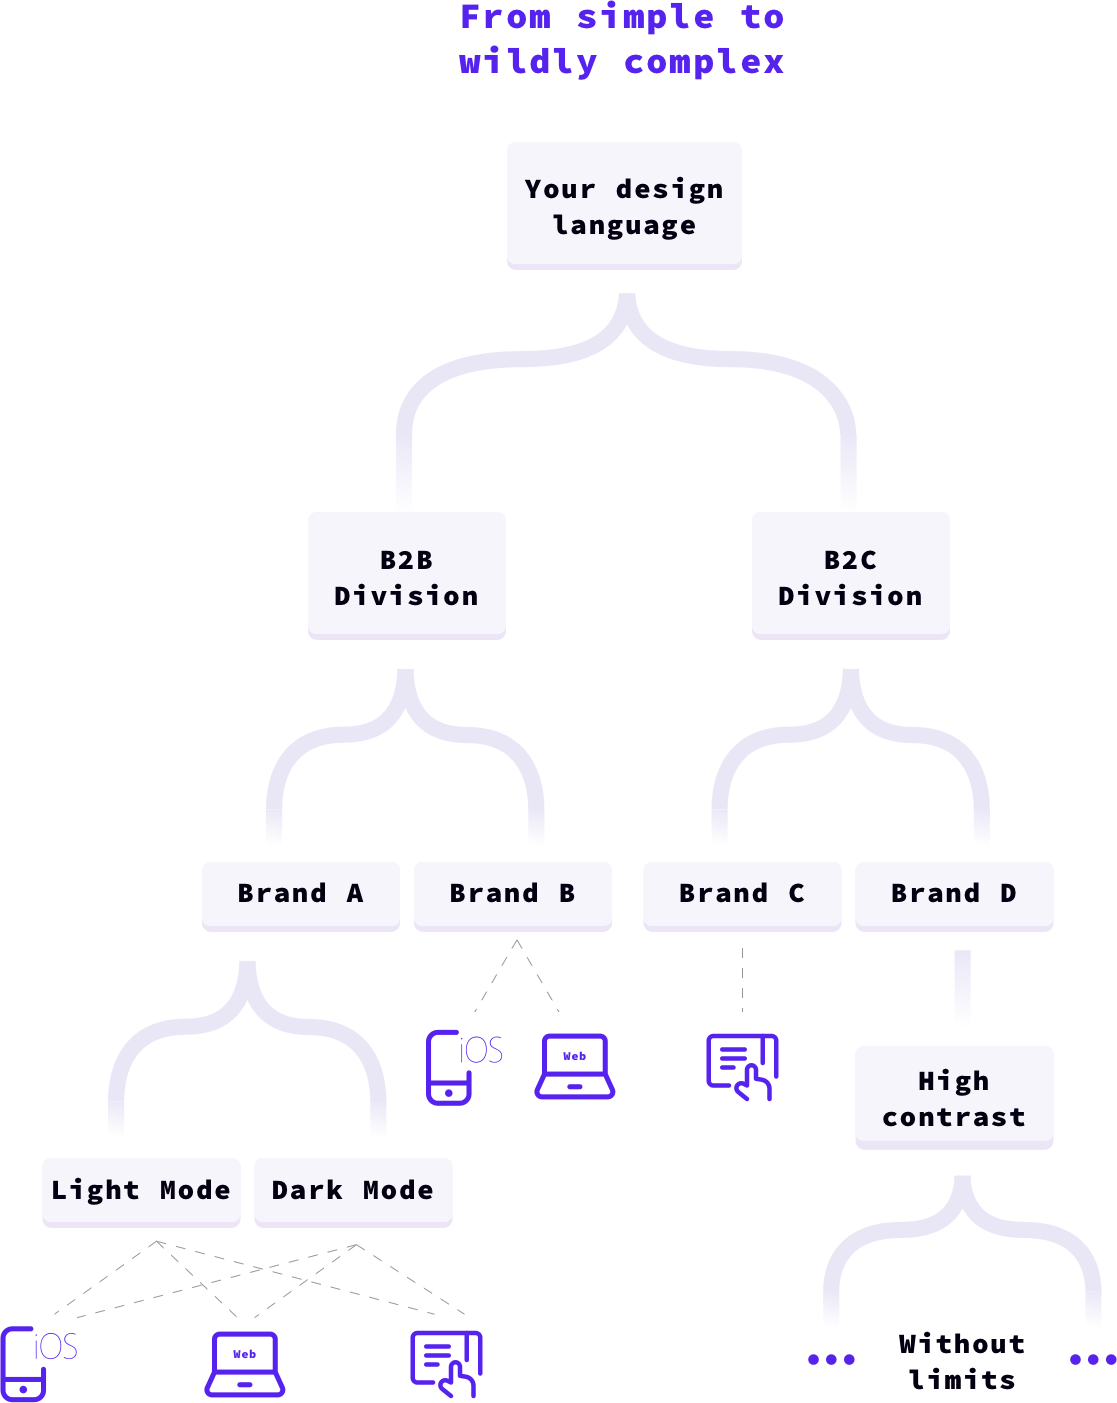
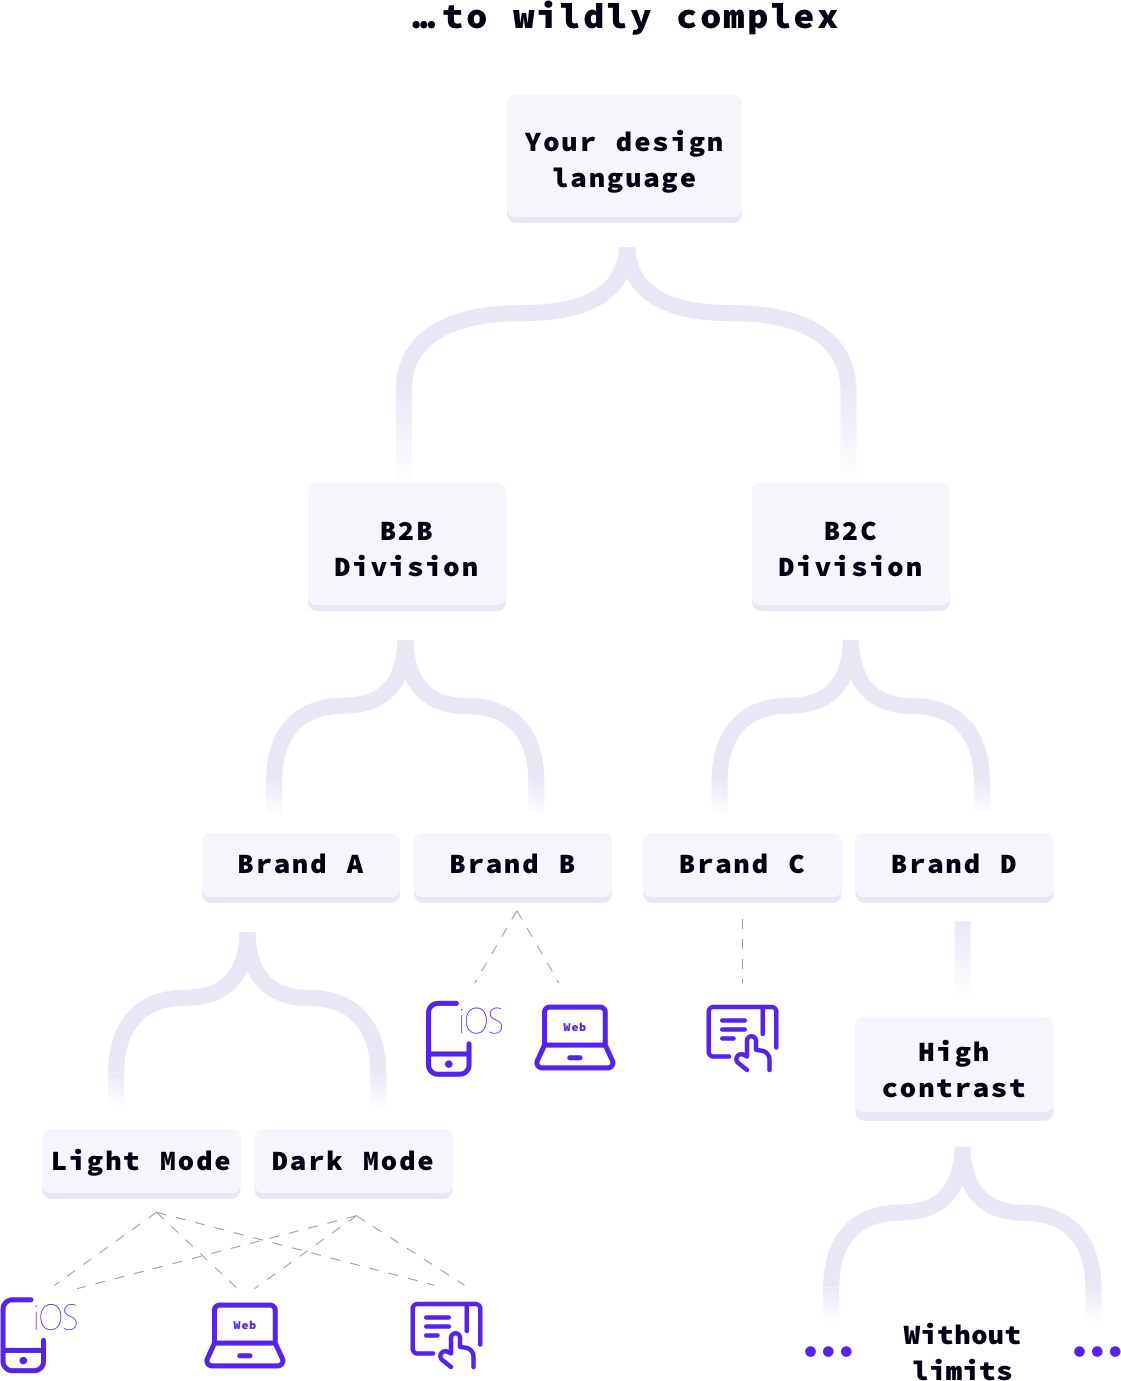
feat: add complexity carousel (#15)

diff --git a/src/layouts/Home.vue b/src/layouts/Home.vue
@@ -75,7 +75,7 @@
           <img src="@theme/assets/imgs/design-system.png" alt="design system" class="hide-on-mobile">
           <img src="@theme/assets/imgs/design-system-mobile.png" alt="design system" class="show-on-mobile mobile-img-spacer">
         </div>
-      
+
         <div class="section-split">
           <div class="half align-top">
             <h2>Scales like a dream</h2>
@@ -84,8 +84,15 @@
             <h3>Infinitely customizable</h3>
             <p>Diez is built around plugins: from the platforms it supports to the kinds of data you can express.  No matter the requirements of your design system — whether you’re wrangling one brand or a hundred — you can customize Diez to fit your needs.</p>
           </div>
-          <div class="half">
-            <img width="90%" src="@theme/assets/imgs/complexity.png" alt="complexity" class="mobile-img-spacer">
+          <div class="half" v-if="carouselComponent && slideComponent">
+            <component :is="carouselComponent" :per-page="1" :loop="true" :autoplay="true" :speed="1000" :autoplayTimeout="3900" :paginationEnabled="false">
+              <component :is="slideComponent" class="flex-centerer">
+                <img width="55%" src="@theme/assets/imgs/simple.png" alt="simple" class="mobile-img-spacer center">
+              </component>
+              <component :is="slideComponent">
+                <img width="90%" src="@theme/assets/imgs/complexity.png" alt="complexity" class="mobile-img-spacer">
+              </component>
+            </component>
           </div>
         </div>
       </section>
@@ -160,11 +167,17 @@ import NavBar from '@theme/components/NavBar.vue';
 export default {
   data () {
     return {
-      typeformUrl: 'https://design-code.typeform.com/to/JnOi9o'
+      typeformUrl: 'https://design-code.typeform.com/to/JnOi9o',
+      carouselComponent: null,
+      slideComponent: null
     };
   },
-  mounted () {
+  async mounted () {
     if (typeof window !== 'undefined') {
+      const {Carousel, Slide} = await import('vue-carousel');
+      this.carouselComponent = Carousel;
+      this.slideComponent = Slide;
+
       const interval = setInterval(() => {
         if (window.currentBranch) {
           this.$data.typeformUrl = `${this.$data.typeformUrl}?sitevariant=${window.currentBranch}`;
@@ -191,7 +204,7 @@ export default {
     position: relative;
     width: 100vw;
     margin: 0 auto;
-    max-width: 1480px;
+    max-width: 2080px;
     height: 86vh;
     min-height: 400px;
     max-height: 800px;
@@ -220,7 +233,7 @@ export default {
       align-items: center;
       flex-direction: column;
       margin: $spacing-xxxl-px auto 0;
-      
+
       h3 {
         font-size: 28px;
       }
@@ -234,7 +247,10 @@ export default {
       right: 0;
       opacity: .09;
       pointer-events: none;
-      transform: rotateY(9deg) rotateX(20deg) rotateZ(-33deg) scale(.9) translateY(-59%)
+      transform: rotateY(9deg) rotateX(20deg) rotateZ(-33deg) scale(.9) translateY(-67%) translateX(-30%);
+      @include phone {
+        transform: rotateY(9deg) rotateX(20deg) rotateZ(-33deg) scale(.9) translateY(-30%) translateX(0);
+      }
     }
   }
 
@@ -537,6 +553,12 @@ export default {
     @include phone {
       margin-top: 0;
     }
+  }
+
+  .flex-centerer {
+    display: flex;
+    align-items: center;
+    justify-content: center;
   }
 
 </style>

diff --git a/src/layouts/Licensing.vue b/src/layouts/Licensing.vue
@@ -17,17 +17,17 @@
         <li>The Qt Project — a cross-platform GUI-creation tool, GPL and LGPL licensed</li>
         <li>Neo4j — the world’s most popular graph database server, GPL licensed</li>
       </ul>
-      
+
       <h4>AGPL modules: Compiler, Extractors, and CLI</h4>
       <p>In the same way that GCC and Git are widely used without restriction in commercial settings, Diez CE’s compiler, extractors, and CLI (licensed under the AGPL license) are all generally usable in the same way.  These pieces of Diez are all “compiler-like” or “command line interface-like” and are freely usable by individual developers at development time</p>
       <p>That said, if you modify any of the source code for these tools, dynamically or statically link them in any codebase (including via “shelling” or calling these tools via command-line from a codebase,) or otherwise distribute these tools as part of other codebases/systems, <strong>including via network access</strong> (for example in continuous integration (CI) servers, application (HTTP) servers, or automated build scripts) — <strong>be aware that you are obligated to open-source all related code & make publicly available under the AGPL license in turn.</strong></p>
       <p>If you are not willing or able to meet these requirements of the AGPL license, you will want Diez Enterprise Edition instead, which offers flexible commercial licensing. <a :href="typeformUrl" target="_blank">Contact us</a> for more info or if you have any questions about the obligations of the AGPL license.</p>
-      
+
       <h4>LGPL module: Framework</h4>
       <p>Diez CE’s Framework module contains code intended to be dynamically linked inside your own proprietary codebases—i.e. it contains the code you import in order to create a Diez design language—so it’s licensed under the LGPL to ensure that it’s freely usable under most commercial use-cases.</p>
       <p>That said, <strong>“derivative works,” i.e. codebases using any modifications to the Diez Framework module itself, or any codebase that statically links Diez Framework code, must be open-sourced under LGPL and freely distributed in turn.</strong></p>
       <p>If you are not willing or able to meet these requirements of the LGPL license, you will want Diez Enterprise Edition instead, which offers flexible commercial licensing. <a :href="typeformUrl" target="_blank">Contact us</a> for more info or if you have any questions about the obligations of the LGPL license.</p>
-    
+
       <h3>Diez Enterprise Edition</h3>
       <p><strong>Diez EE</strong> features three key advantages over Diez Community Edition:</p>
       <ul>
@@ -64,7 +64,7 @@ export default {
   h2 {
     margin-top: $sizing-xxs-px;
   }
-  
+
   h3 {
     margin-top: $sizing-xxs-px;
   }

diff --git a/src/components/NavBar.vue b/src/components/NavBar.vue
@@ -38,10 +38,10 @@
               <a href="https://twitter.com/dieznative" target="_blank"><img height="20px" width="24px" src="../assets/imgs/twitter.svg" alt="twitter" title="twitter">Twitter</a>
               <a href="https://medium.com/dieznative" target="_blank"><img height="22px" width="22px" src="../assets/imgs/medium.svg" alt="medium" title="medium">Medium</a>
               <a href="https://github.com/diez/diez" @click="sendGitHubClickEvent" target="_blank"><img height="24px" width="24px" src="../assets/imgs/github.svg" alt="github" title="github">GitHub</a>
-            </span> 
+            </span>
           </span>
           <a href="https://github.com/diez/diez" target="_blank" class="hide-on-mobile" @click="sendGitHubClickEvent">Github</a>
-          
+
           <a href="https://www.producthunt.com/posts/diez?utm_source=badge-featured&utm_medium=badge&utm_souce=badge-diez" target="_blank"><img src="https://api.producthunt.com/widgets/embed-image/v1/featured.svg?post_id=174759&theme=dark" alt="Diez - The Design Language Framework | Product Hunt Embed" style="width: 192px; height: 42px;" class="ph hide-on-mobile" width="192px" height="42px" /></a>
           <router-link class="button hide-on-mobile" to="/getting-started">Get started</router-link>
 
@@ -91,12 +91,12 @@ export default {
       this.$data.isMobileMenuOpen = !this.$data.isMobileMenuOpen;
     },
 
-    showChange(val){
+    showChange (val) {
       this.show = val;
     },
 
-    open(){
-      if(!this.show) this.$refs.drop.$emit('show', this.$refs.caller);
+    open () {
+      if (!this.show) this.$refs.drop.$emit('show', this.$refs.caller);
     }
   }
 };
@@ -190,7 +190,7 @@ export default {
       img {
         margin-right: $spacing-sm-px;
       }
-      
+
       a {
         padding: 8px 20px;
         display: block;
@@ -226,7 +226,7 @@ export default {
     right: $mobile-toggle-margin;
     cursor: pointer;
   }
-  
+
   .ph {
     width: 192px;
     height: 42px;

diff --git a/src/layouts/Glossary.vue b/src/layouts/Glossary.vue
@@ -16,7 +16,7 @@
           <h2 id="glossary">Glossary</h2>
 
           <h3 id="tokens">Design Tokens</h3>
-          <p>Think of design tokens as "design data": concepts like colors, typography definitions, spacings, sizings, and drop shadows — agnostic of any particular design tool or programming language.  Design tokens are the basic building blocks that compose into a design language.    
+          <p>Think of design tokens as "design data": concepts like colors, typography definitions, spacings, sizings, and drop shadows — agnostic of any particular design tool or programming language.  Design tokens are the basic building blocks that compose into a design language.
           <br><br>
           The magic of design tokens is they sit right at the gap between design and code — they're design concepts, but since they have no opinions about rendering or technologies, they're adaptable into any codebase with the right tooling (like Diez's cross-platform native compiler).
           <br><br>

diff --git a/src/components/GettingStartedNav.vue b/src/components/GettingStartedNav.vue
@@ -49,7 +49,6 @@ export default {
   @import '@theme/styles/_utils.scss';
 
   .nav-wrap {
-    background-color: $palette-white;
     position: fixed;
     height: 100%;
     top: 0;
